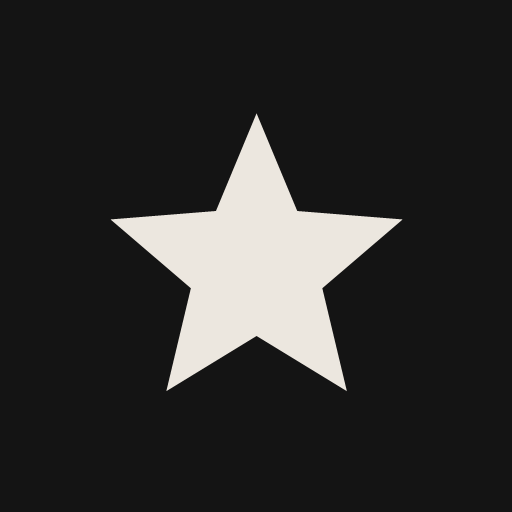
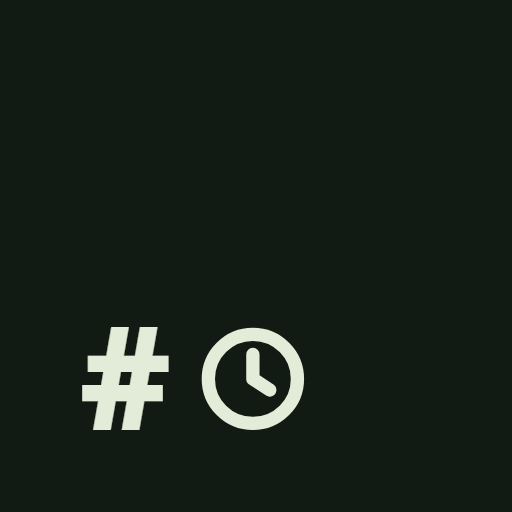
stats v1.2.a

Changed region(s): [[0.1562, 0.2188, 0.7812, 0.8438]]

diff --git a/src/stats/index.html b/src/stats/index.html
@@ -9,7 +9,7 @@
     <meta name="apple-mobile-web-app-status-bar-style" content="black" />
     <meta name="apple-mobile-web-app-title" content="stats" />
     <link rel="manifest" href="manifest.webmanifest" />
-    <!-- both are redrawn in the chosen colours by updateIcons(); these files are the dark default -->
+    <!-- the app icon: # and a clock in the bottom-left corner, forest background, whatever the theme -->
     <link rel="apple-touch-icon" id="touchIcon" href="icon-180.png" />
     <link rel="icon" type="image/png" id="tabIcon" href="icon-192.png" />
     <link rel="stylesheet" href="style.css" />
@@ -70,37 +70,6 @@
         s.setProperty("--font", FONTS[settings.font].css);
         s.colorScheme = t.scheme;
         updateBar();
-        updateIcons(settings.theme);
-      }
-
-      // star on the theme's background, same layout as icon-*.png
-      function drawIcon(size, t) {
-        const c = document.createElement("canvas");
-        c.width = c.height = size;
-        const g = c.getContext("2d");
-        g.fillStyle = t.bg;
-        g.fillRect(0, 0, size, size);
-        const cx = size / 2, cy = size * 0.52, outer = size * 0.3, inner = outer * 0.45;
-        g.beginPath();
-        for (let i = 0; i < 10; i++) {
-          const r = i % 2 ? inner : outer;
-          const a = -Math.PI / 2 + (i * Math.PI) / 5;
-          g.lineTo(cx + r * Math.cos(a), cy + r * Math.sin(a));
-        }
-        g.closePath();
-        g.fillStyle = t.fg;
-        g.fill();
-        return c.toDataURL("image/png");
-      }
-
-      // tab icon follows the theme live; the iPhone home-screen icon is whatever it is
-      // at the moment "Add to Home Screen" is tapped. Android uses the manifest's dark files.
-      function updateIcons(theme) {
-        try {
-          const custom = theme !== "dark";
-          document.getElementById("tabIcon").href = custom ? drawIcon(64, THEMES[theme]) : "icon-192.png";
-          document.getElementById("touchIcon").href = custom ? drawIcon(180, THEMES[theme]) : "icon-180.png";
-        } catch {}
       }
 
       // phone status bar matches the page: off-white on the first-visit screens, dark otherwise (welcome page included)

diff --git a/src/stats/sw.js b/src/stats/sw.js
@@ -1,7 +1,7 @@
 // Offline support: serve from cache, refresh cache in the background.
 // Bump VERSION when you change the app files.
-const VERSION = "stats-v54";
-const FILES = ["./", "index.html", "style.css", "app.js", "demo.js", "settings.js", "welcome.js", "start.js", "manifest.webmanifest", "icon-180.png", "icon-192.png", "icon-512.png", "../fonts/ia-writer-mono-latin-400-normal.ttf", "../fonts/ia-writer-mono-latin-700-normal.ttf", "../fonts/ia-writer-mono-latin-400-italic.ttf"];
+const VERSION = "stats-v56";
+const FILES = ["./", "index.html", "style.css", "app.js", "demo.js", "settings.js", "welcome.js", "start.js", "manifest.webmanifest", "icon-180.png", "icon-192.png", "icon-512.png", "icon-maskable-512.png", "../fonts/ia-writer-mono-latin-400-normal.ttf", "../fonts/ia-writer-mono-latin-700-normal.ttf", "../fonts/ia-writer-mono-latin-400-italic.ttf"];
 
 self.addEventListener("install", (e) => {
   e.waitUntil(caches.open(VERSION).then((c) => c.addAll(FILES)));
